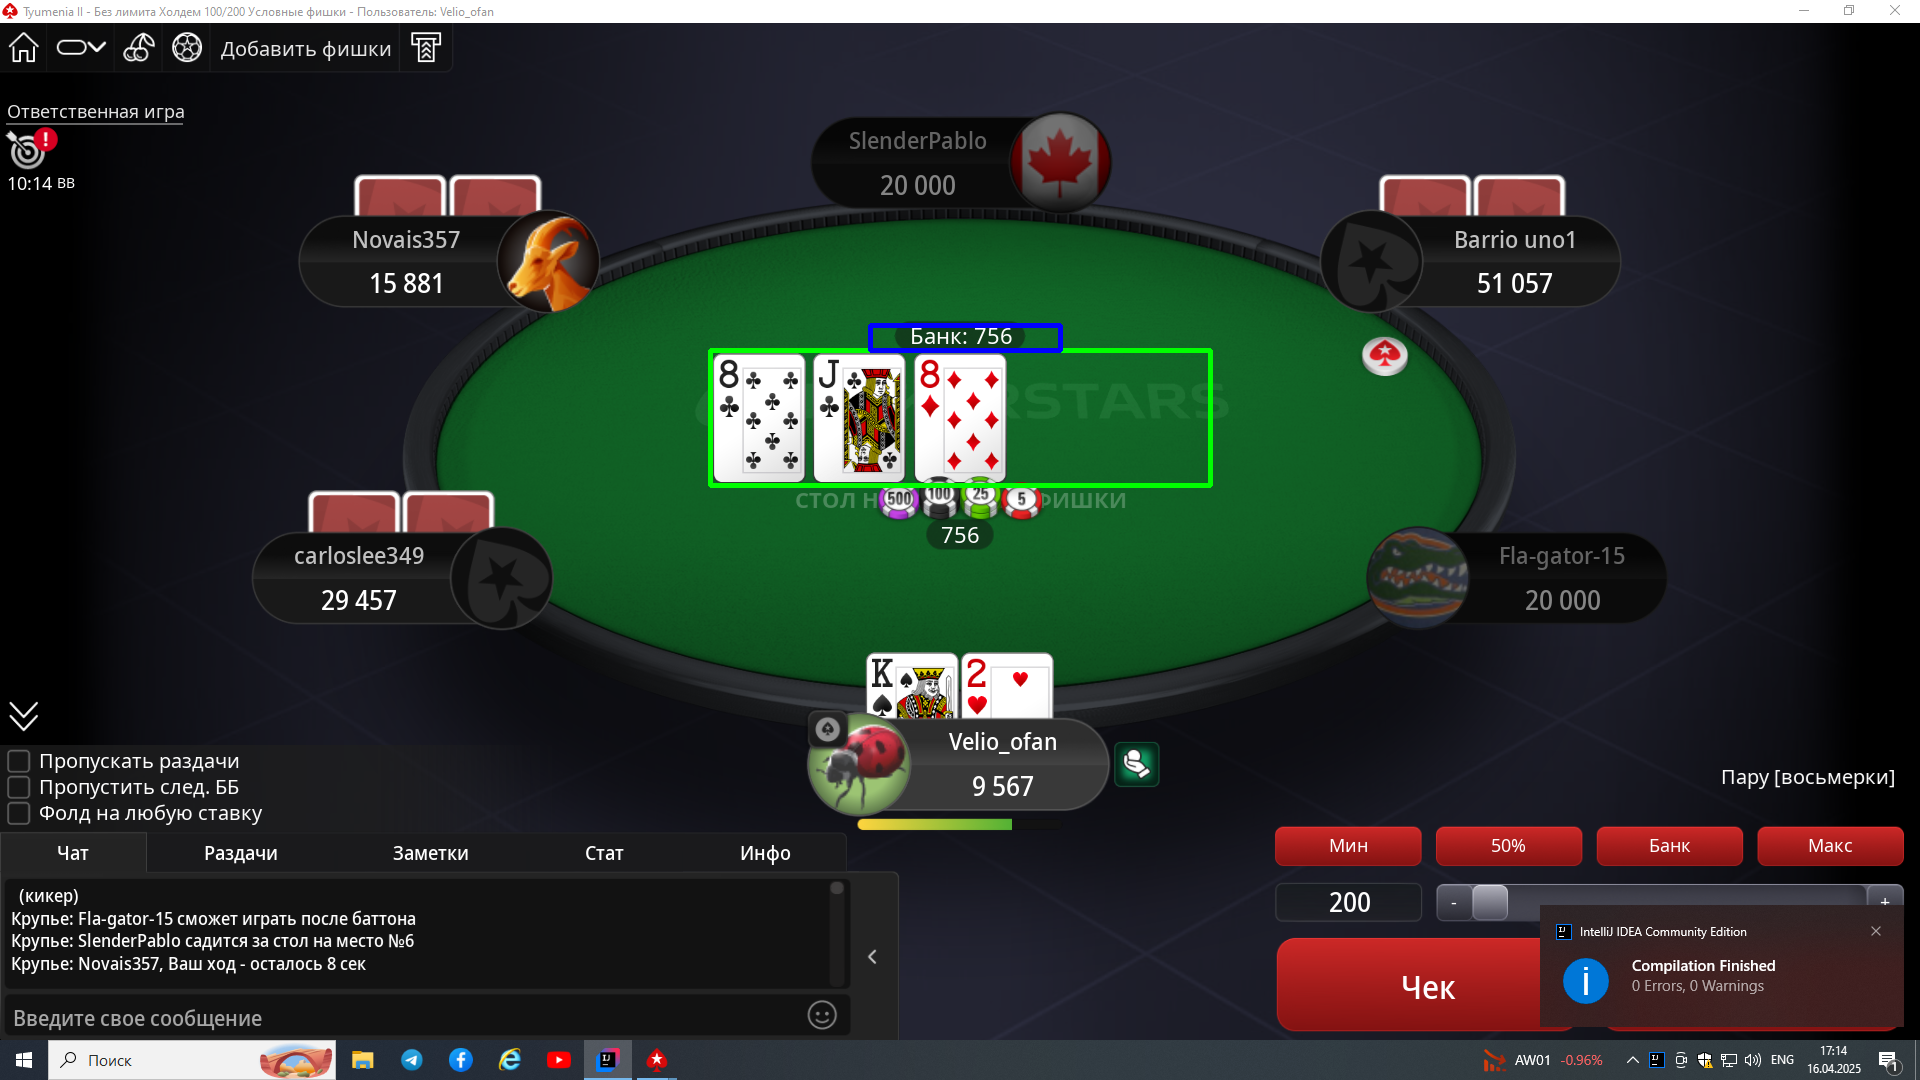
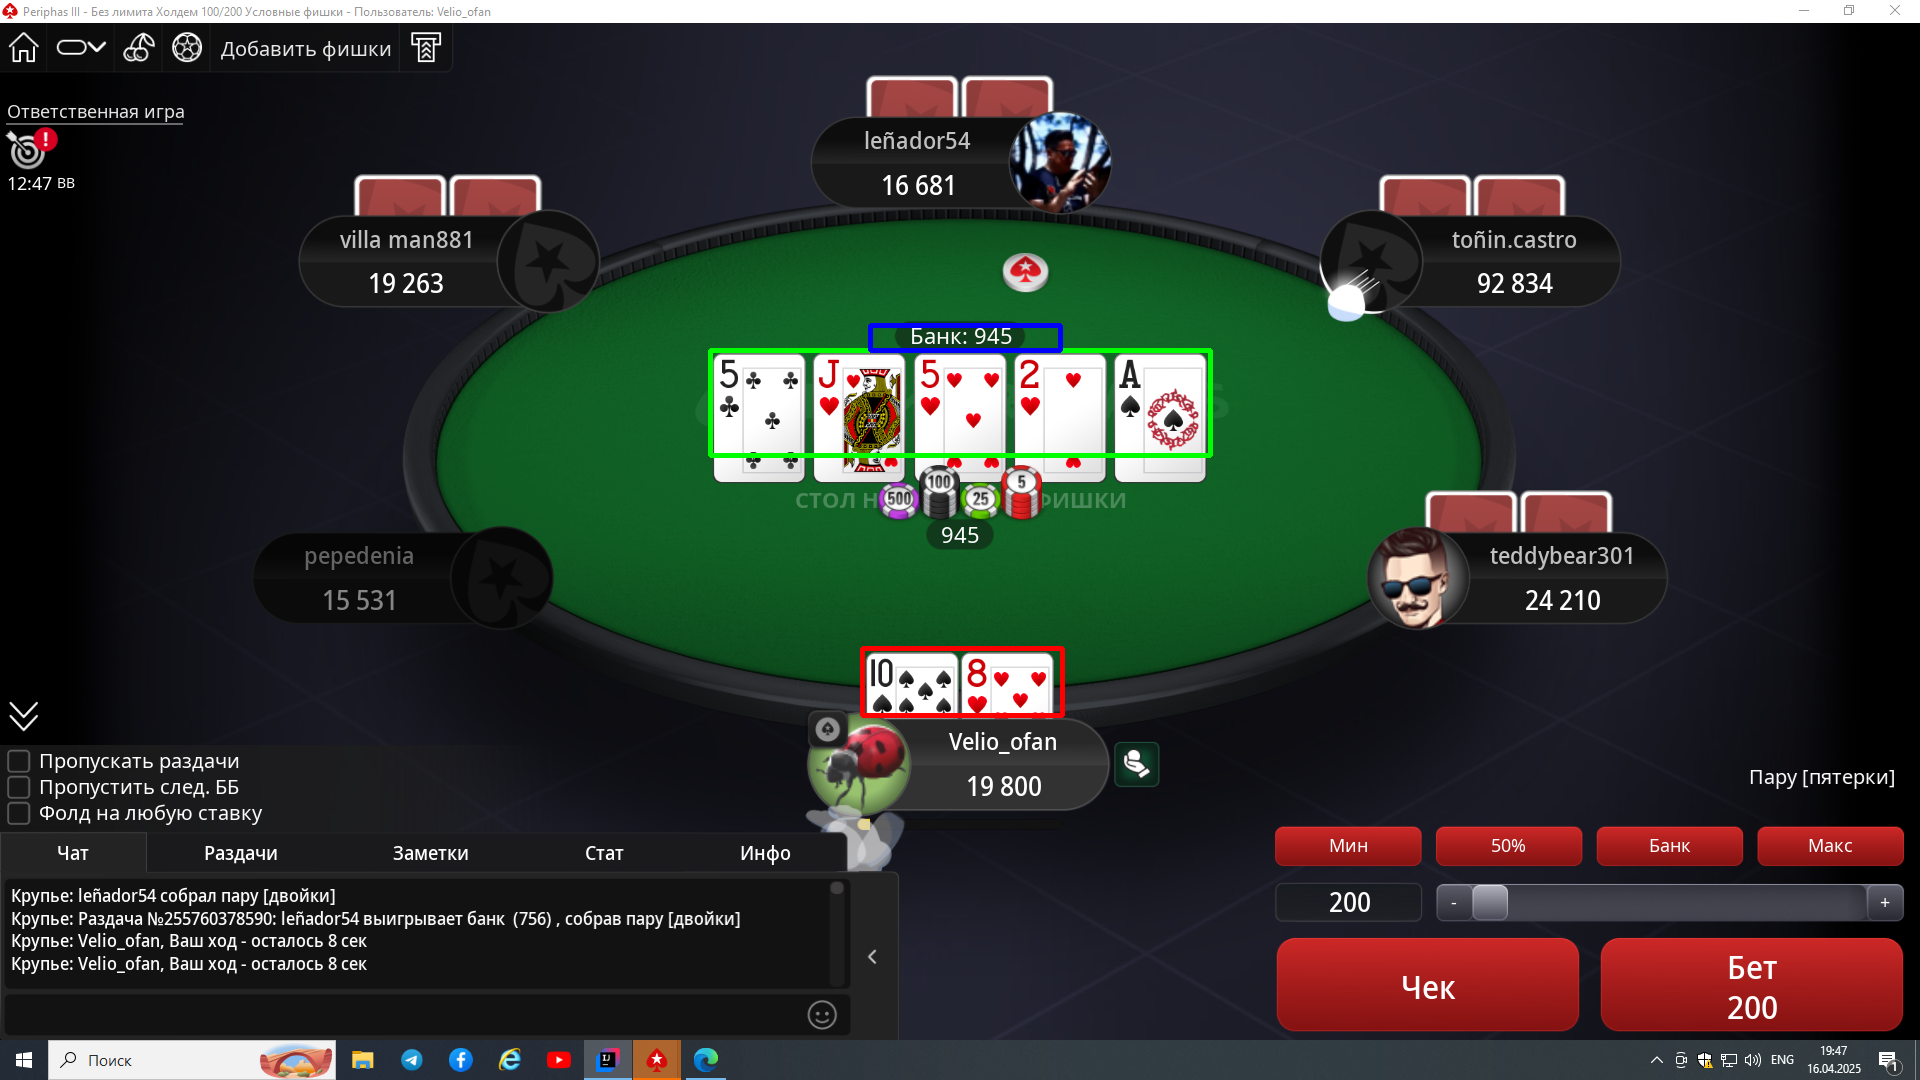
Add cards

diff --git a/src/main/java/alex/valker91/Main.java b/src/main/java/alex/valker91/Main.java
@@ -37,28 +37,32 @@ public class Main {
 //        BufferedImage screenshot = new Robot().createScreenCapture(
 //                new Rectangle(Toolkit.getDefaultToolkit().getScreenSize())
 //        );
-        File screenshotFile = new File("screenshot_5_cards.png");
+        File screenshotFile = new File("screenshot_4_cards.png");
 //        ImageIO.write(screenshot, "png", screenshotFile);
 
         // 2. Загрузка изображения в OpenCV
         Mat img = Imgcodecs.imread(screenshotFile.getAbsolutePath());
 
         // 3. Области интереса (настройте координаты)
-//        Rect myCardsROI = new Rect(860, 645, 200, 70);  // x, y, width, height
+        Rect myCards1ROI = new Rect(862, 648, 200, 67);  // x, y, width, height
+//        Rect myCards2ROI = new Rect(960, 648, 98, 67);  // x, y, width, height
+
         Rect communityCardsROI = new Rect(710, 350, 500, 105);
         Rect potROI = new Rect(870, 325, 190, 25);
 
         // Сохранение вырезанного кусочка
         String outputPath = "C:\\Users\\Aliaksandr_Kreyer\\Desktop\\my\\PokerScreen\\src\\main\\resources\\saved.png";
         saveTemplateFromROI(img, communityCardsROI, outputPath);
-//
-////        Imgproc.rectangle(img, myCardsROI.tl(), myCardsROI.br(), new Scalar(0, 0, 255), 3);
-//        Imgproc.rectangle(img, communityCardsROI.tl(), communityCardsROI.br(), new Scalar(0, 255, 0), 3);
-//        Imgproc.rectangle(img, potROI.tl(), potROI.br(), new Scalar(255, 0, 0), 3);
-//
-//        // Сохранение изображения с визуализацией
-//        Imgcodecs.imwrite("annotated_screenshot.png", img);
-//
+
+        Imgproc.rectangle(img, myCards1ROI.tl(), myCards1ROI.br(), new Scalar(0, 0, 255), 3);
+//        Imgproc.rectangle(img, myCards2ROI.tl(), myCards2ROI.br(), new Scalar(0, 0, 255), 3);
+
+        Imgproc.rectangle(img, communityCardsROI.tl(), communityCardsROI.br(), new Scalar(0, 255, 0), 3);
+        Imgproc.rectangle(img, potROI.tl(), potROI.br(), new Scalar(255, 0, 0), 3);
+
+        // Сохранение изображения с визуализацией
+        Imgcodecs.imwrite("annotated_screenshot.png", img);
+
 //        // 4. Распознавание карт (шаблонный метод)
 ////        data.put("my_cards", recognizeCards(img.submat(myCardsROI)));
 //
@@ -76,9 +80,12 @@ public class Main {
 
         // 4. Распознать карты
         List<String> communityCards = recognizeCommunityCards(img.submat(communityCardsROI));
+        List<String> myCard1 = recognizeCommunityCardsMy(img.submat(myCards1ROI));
+//        String myCard2 = recognizeSingleCard(img.submat(myCards2ROI));
 
         // 5. Вывести результат
         System.out.println("Карты на столе: " + communityCards);
+        System.out.println("Мои карты: " + myCard1);
         return data;
     }
 
@@ -108,14 +115,14 @@ public class Main {
         return cards;
     }
 
-    private static List<String> recognizeCards(Mat cardArea) {
+    private static List<String> recognizeCommunityCardsMy(Mat communityCardsImage) {
         List<String> cards = new ArrayList<>();
-        int cardCount = 2;
-        int cardWidth = cardArea.width() / cardCount;
+        int maxCards = 2;
+        int cardWidth = communityCardsImage.width() / maxCards;
 
-        for (int i = 0; i < cardCount; i++) {
-            Rect cardROI = new Rect(i * cardWidth, 0, cardWidth, cardArea.height());
-            Mat singleCard = new Mat(cardArea, cardROI);
+        for (int i = 0; i < maxCards; i++) {
+            Rect cardROI = new Rect(i * cardWidth, 0, cardWidth, communityCardsImage.height());
+            Mat singleCard = new Mat(communityCardsImage, cardROI);
             String cardName = recognizeSingleCard(singleCard);
             if (!cardName.isEmpty()) cards.add(cardName);
             singleCard.release();
@@ -140,196 +147,6 @@ public class Main {
         System.out.println("% Распознания: "+maxVal);
         return (maxVal > MATCH_THRESHOLD) ? bestMatch : "";
     }
-
-
-//    private static List<String> recognizeCommunityCards(Mat communityCardsImage) {
-//        List<String> cards = new ArrayList<>();
-//
-//        // 1. Предполагаем, что карты расположены горизонтально с равными промежутками
-//        int cardCount = 5; // Максимальное возможное количество
-//        int cardWidth = communityCardsImage.width() / cardCount;
-//        int cardHeight = communityCardsImage.height();
-//
-//        // 2. Перебор всех возможных позиций
-//        for (int i = 0; i < cardCount; i++) {
-//            // Вырезаем область для i-й карты
-//            Rect cardROI = new Rect(
-//                    i * cardWidth,
-//                    0,
-//                    cardWidth,
-//                    cardHeight
-//            );
-//            Mat singleCard = new Mat(communityCardsImage, cardROI);
-//
-//            // 3. Распознаем карту
-//            String cardName = recognizeSingleCard(singleCard);
-//            if (!cardName.isEmpty()) {
-//                cards.add(cardName);
-//            }
-//            singleCard.release();
-//        }
-//
-//        return cards;
-//    }
-
-//    private static void loadCardTemplates(String templatesPath) {
-//        cardTemplates = new HashMap<>();
-//        File templatesDir = new File(templatesPath);
-//        for (File file : templatesDir.listFiles()) {
-//            if (file.getName().endsWith(".png")) {
-//                Mat template = Imgcodecs.imread(file.getAbsolutePath());
-//                cardTemplates.put(file.getName().replace(".png", ""), template);
-//            }
-//        }
-//    }
-
-//    private static List<String> recognizeCards(Mat cardImage) {
-//        List<String> cards = new ArrayList<>();
-//        for (Map.Entry<String, Mat> entry : cardTemplates.entrySet()) {
-//            Mat result = new Mat();
-//            Imgproc.matchTemplate(cardImage, entry.getValue(), result, Imgproc.TM_CCOEFF_NORMED);
-//            Core.MinMaxLocResult mmr = Core.minMaxLoc(result);
-//            if (mmr.maxVal > 0.85) {
-//                cards.add(entry.getKey());
-//            }
-//            result.release();
-//        }
-//        return cards;
-//    }
-
-//    private static String recognizeSingleCard(Mat cardImage) {
-//        String matchedCard = "";
-//        double maxVal = 0.0;
-//
-//        // 4. Сравнение со всеми шаблонами
-//        for (Map.Entry<String, Mat> entry : cardTemplates.entrySet()) {
-//            Mat result = new Mat();
-//            Imgproc.matchTemplate(
-//                    cardImage,
-//                    entry.getValue(),
-//                    result,
-//                    Imgproc.TM_CCOEFF_NORMED
-//            );
-//
-//            Core.MinMaxLocResult mmr = Core.minMaxLoc(result);
-//            if (mmr.maxVal > maxVal) {
-//                maxVal = mmr.maxVal;
-//                matchedCard = entry.getKey();
-//            }
-//            result.release();
-//        }
-//
-//        return (maxVal > 0.85) ? matchedCard : "";
-//    }
-
-//    private static List<String> recognizeCards(Mat cardImage) {
-//        List<String> recognizedCards = new ArrayList<>();
-//
-//        // Получение пути к папке с шаблонами
-//        String templatesPath = "C:\\Users\\Aliaksandr_Kreyer\\Desktop\\my\\PokerScreen\\src\\main\\resources\\cards"; // Папка с шаблонами
-//
-//        File templatesDir = new File(templatesPath);
-//
-//        // 1. Загрузка всех шаблонов
-//        Map<String, Mat> cardTemplates = new HashMap<>();
-//        for (File templateFile : templatesDir.listFiles()) {
-//            if (templateFile.getName().endsWith(".png")) {
-//                Mat template = Imgcodecs.imread(templateFile.getAbsolutePath(), Imgcodecs.IMREAD_COLOR);
-//                if (template.empty()) {
-//                    System.err.println("Ошибка загрузки шаблона: " + templateFile.getAbsolutePath());
-//                    continue;
-//                }
-//                String cardName = templateFile.getName().replace(".png", "");
-//                cardTemplates.put(cardName, template);
-//            }
-//        }
-//
-//        // Проверка размеров входного изображения
-//        System.out.println("Размер входного изображения: " + cardImage.size());
-//
-//        // Проверка размеров шаблонов
-//        for (Map.Entry<String, Mat> entry : cardTemplates.entrySet()) {
-//            System.out.println("Размер шаблона " + entry.getKey() + ": " + entry.getValue().size());
-//        }
-//
-//        // Если размеры не совпадают, измените размер шаблонов до размера входного изображения
-//        for (Map.Entry<String, Mat> entry : cardTemplates.entrySet()) {
-//            Mat resizedTemplate = new Mat();
-//            Imgproc.resize(entry.getValue(), resizedTemplate, cardImage.size());
-//            cardTemplates.put(entry.getKey(), resizedTemplate);
-//        }
-//
-//        // Проверка размеров шаблонов
-//        for (Map.Entry<String, Mat> entry : cardTemplates.entrySet()) {
-//            System.out.println("Размер шаблона " + entry.getKey() + ": " + entry.getValue().size());
-//        }
-//
-//        // 2. Поиск совпадений для каждой карты
-//        for (Map.Entry<String, Mat> entry : cardTemplates.entrySet()) {
-//            Mat result = new Mat();
-//            Imgproc.matchTemplate(
-//                    cardImage,
-//                    entry.getValue(),
-//                    result,
-//                    Imgproc.TM_CCOEFF_NORMED
-//            );
-//
-//            // 3. Поиск лучшего совпадения
-//            Core.MinMaxLocResult mmr = Core.minMaxLoc(result);
-//            double maxVal = mmr.maxVal;
-//            System.out.println("maxVal: " + maxVal);
-//
-//            // 4. Порог совпадения (настраивается)
-//            if (maxVal > 0.8) {
-//                recognizedCards.add(entry.getKey());
-//            }
-//        }
-//
-//        // 5. Освобождение ресурсов
-//        for (Mat template : cardTemplates.values()) {
-//            template.release();
-//        }
-//
-//        return recognizedCards;
-//    }
-//
-//    private static List<String> recognizeMultipleCards(Mat communityCardsImage, int cardWidth, int cardHeight, int gapWidth) {
-//        List<String> recognizedCards = new ArrayList<>();
-//
-//        // Определяем количество карт в области (с учетом промежутков)
-//        int numCards = (communityCardsImage.width() + gapWidth) / (cardWidth + gapWidth);
-//
-//        System.out.println("Количество карт в области: " + numCards);
-//
-//        // Применяем распознавание для каждой карты
-//        for (int i = 0; i < numCards; i++) {
-//            // Вычисляем координаты текущей карты
-//            int x = i * (cardWidth + gapWidth);
-//            if (x + cardWidth > communityCardsImage.width()) {
-//                break; // Если карта выходит за пределы области, прекращаем
-//            }
-//
-//            Rect cardROI = new Rect(x, 0, cardWidth, cardHeight);
-//
-//            // Вырезаем область карты
-//            Mat cardImage = communityCardsImage.submat(cardROI);
-//
-//            // Распознаём карту с помощью шаблонов
-//            List<String> recognizedCard = recognizeCards(cardImage);
-//            recognizedCards.addAll(recognizedCard);
-//
-//            // Визуализация (опционально, для отладки)
-//            Imgproc.rectangle(communityCardsImage, cardROI.tl(), cardROI.br(), new Scalar(0, 255, 0), 2);
-//        }
-//
-//        // (Опционально) Сохранение изображения с выделенными картами
-//        Imgcodecs.imwrite("detected_cards.png", communityCardsImage);
-//
-//        return recognizedCards;
-//    }
-
-
-
 
     private static String recognizeText(Mat roi) throws Exception {
         // Конвертация Mat в BufferedImage

diff --git a/src/main/java/alex/valker91/ImageCropExample.java b/src/main/java/alex/valker91/ImageCropExample.java
@@ -19,10 +19,10 @@ public class ImageCropExample {
             int cropStartY = 0; // Начало обрезки по Y (0 пикселей от верхнего края)
 
             // Выполняем обрезку
-            BufferedImage croppedImage = originalImage.getSubimage(cropStartX+401, cropStartY+3, 95, originalImage.getHeight()-4);
+            BufferedImage croppedImage = originalImage.getSubimage(cropStartX, cropStartY+3, 95, 60);
 
             // Сохраняем обрезанное изображение
-            File outputFile = new File("C:\\Users\\Aliaksandr_Kreyer\\Desktop\\my\\PokerScreen\\src\\main\\resources\\cards\\Error_spades.png");
+            File outputFile = new File("C:\\Users\\Aliaksandr_Kreyer\\Desktop\\my\\PokerScreen\\src\\main\\resources\\cards\\5_clubs.png");
             ImageIO.write(croppedImage, "png", outputFile);
 
             System.out.println("Изображение успешно обрезано и сохранено!");
